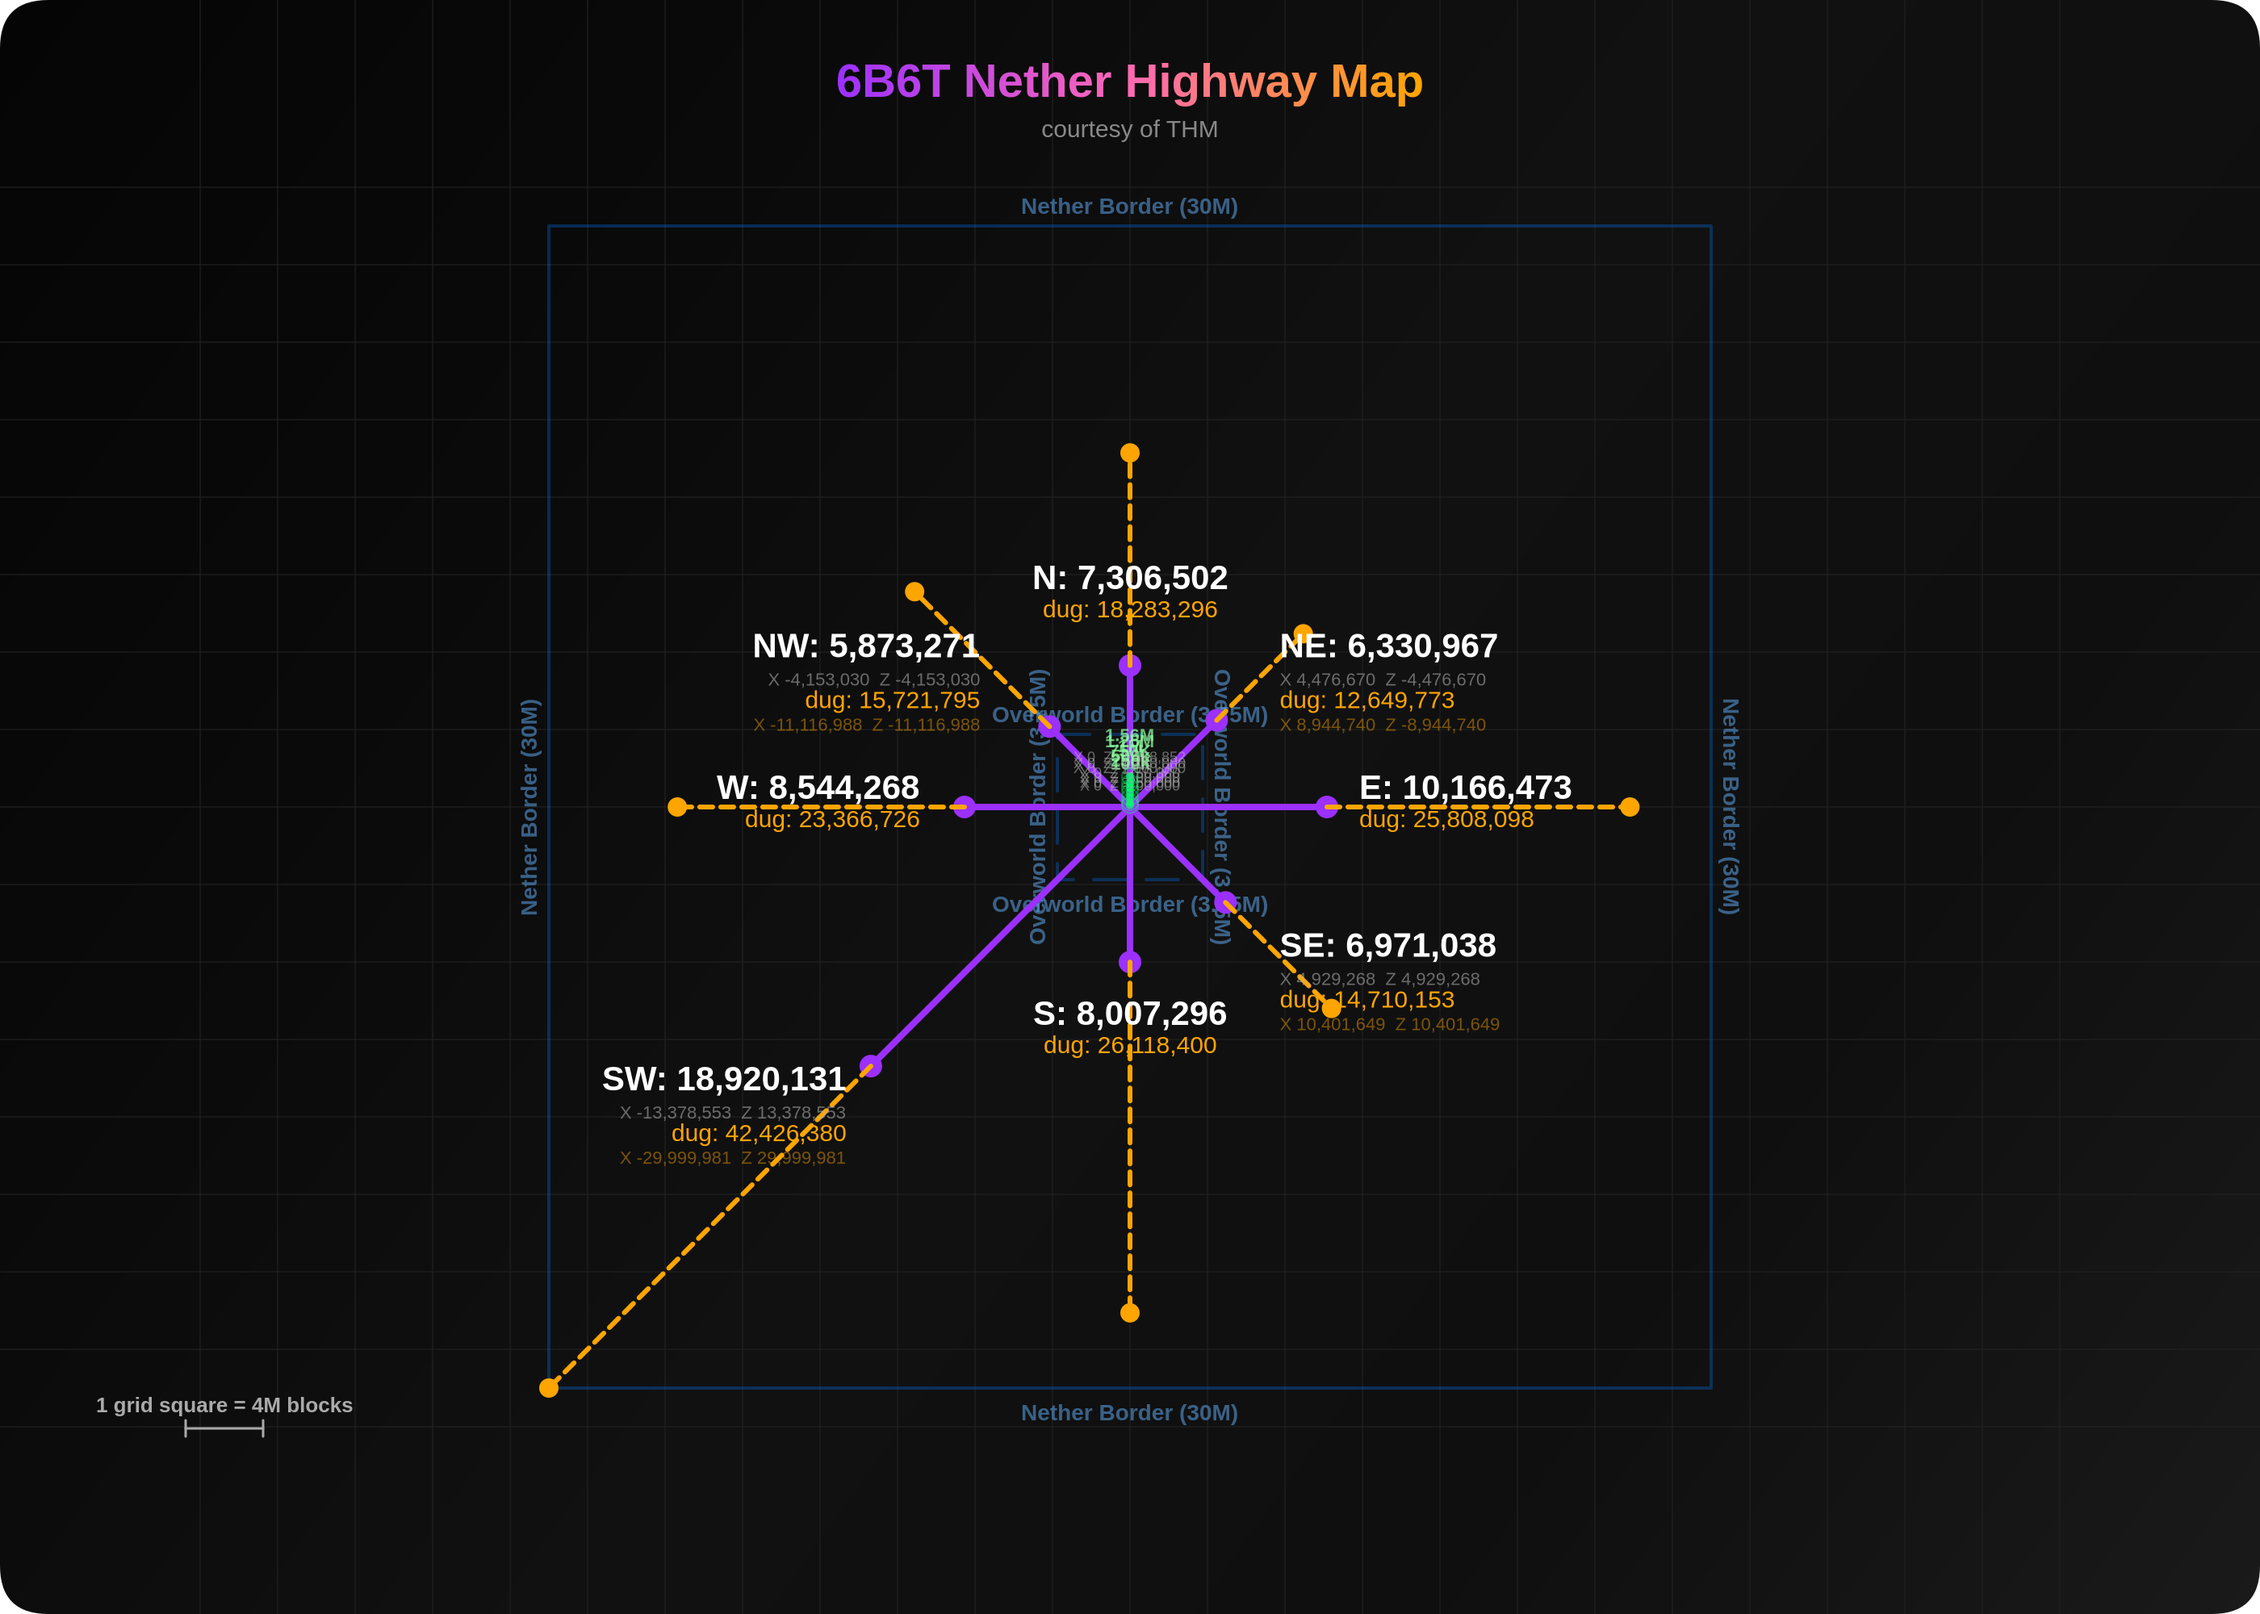
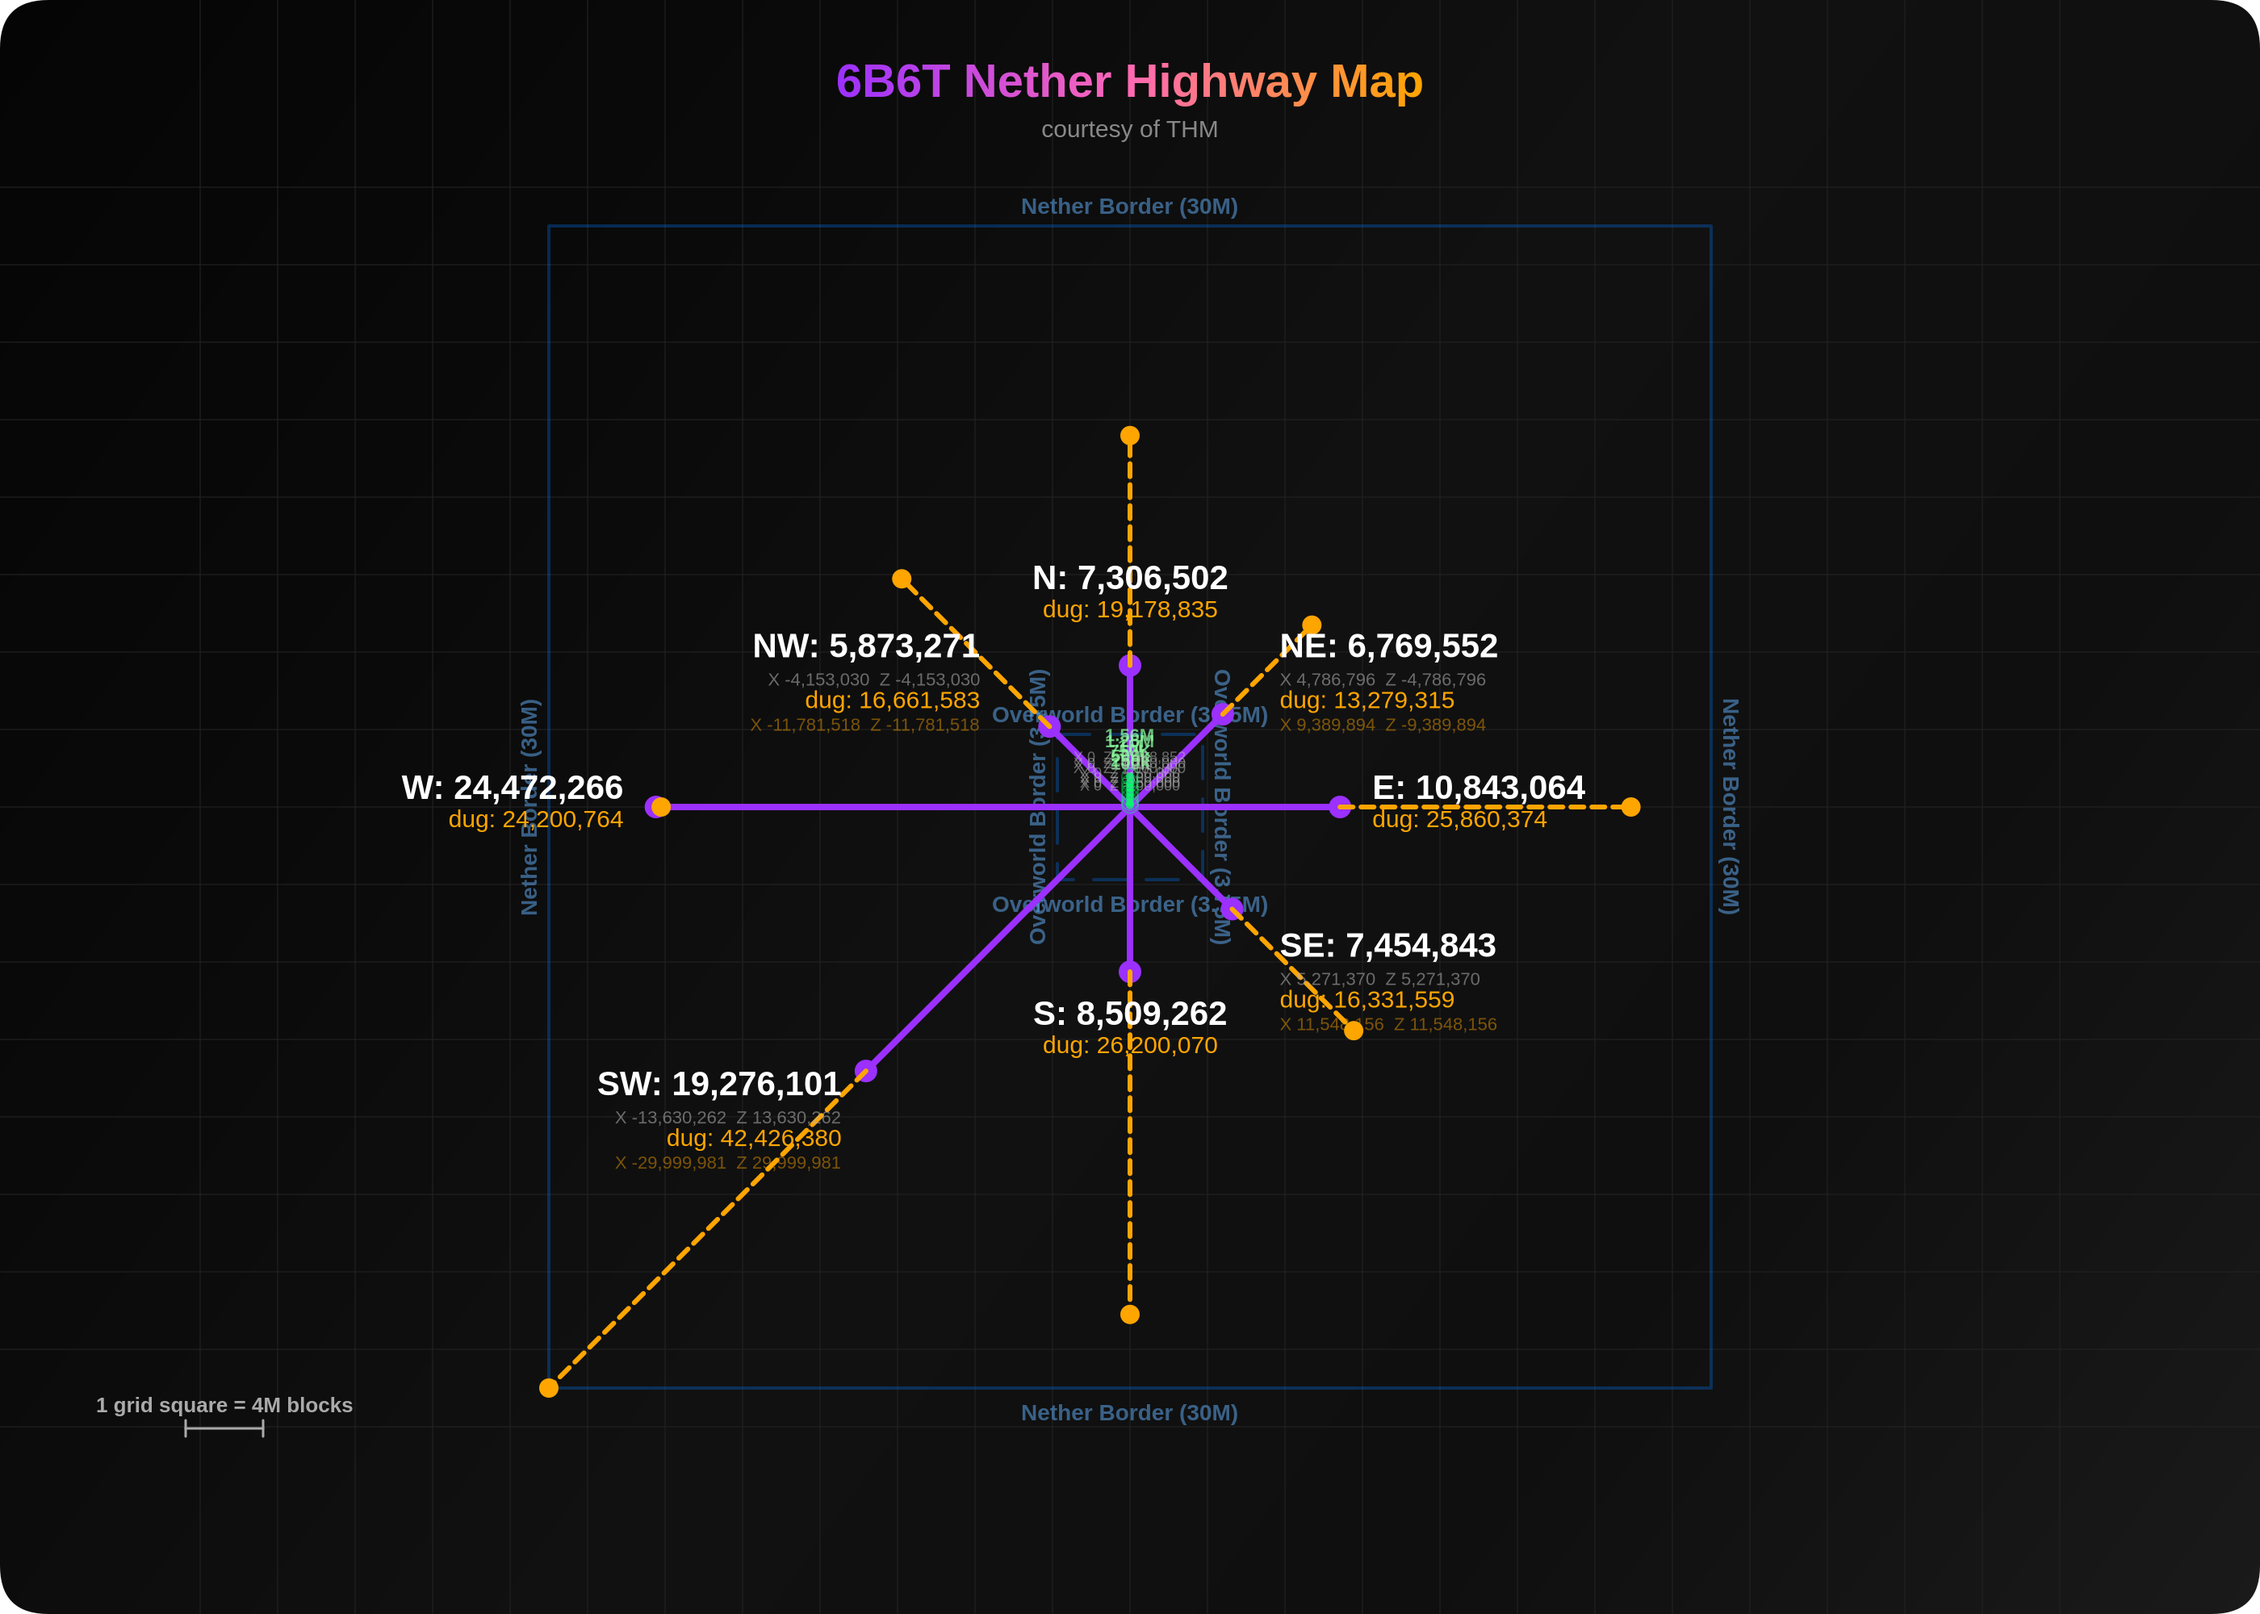
idk

diff --git a/server.js b/server.js
@@ -4,7 +4,7 @@ process.env.NODE_ENV ||= 'production';
 const express = require('express');
 const path = require('path');
 const fs = require('fs');
-const { spawnSync } = require('child_process');
+const { spawnSync, execFile } = require('child_process');
 const app = express();
 
 // Configuration constants
@@ -20,7 +20,8 @@ const STATS_FILE = path.join(PUBLIC_DIR, 'stats.json');
 function findPngs(dir) {
   return fs.readdirSync(dir, { withFileTypes: true }).flatMap((entry) => {
     const full = path.join(dir, entry.name);
-    if (entry.isDirectory()) return findPngs(full);
+    // public/cape/ is watchCapes' job, which deletes the PNG instead of keeping a twin.
+    if (entry.isDirectory()) return full === CAPE_DIR ? [] : findPngs(full);
     return entry.isFile() && entry.name.toLowerCase().endsWith('.png') ? [full] : [];
   });
 }
@@ -40,6 +41,42 @@ function convertPngs() {
     if (r.status === 0) console.log(`webp: ${rel} converted`);
     else console.warn(`webp: ${rel} not converted, serving the PNG —`, r.error?.message || r.stderr?.toString().trim());
   }
+}
+
+// ── New capes ────────────────────────────────────────────────────────────────
+// public/cape/ is watched: a .png dropped in becomes a lossless .webp and the
+// .png is deleted, so /cape/index lists it with no restart. The index only reads
+// .webp, so a cape PNG is dead weight — unlike the twins above, it goes.
+// The settle delay lets an upload finish writing before ffmpeg reads it.
+const CAPE_DIR = path.join(PUBLIC_DIR, 'cape');
+const CAPE_SETTLE_MS = 2000;
+const capeTimers = new Map();
+
+function convertCape(png) {
+  const name = path.basename(png);
+  const webp = png.replace(/\.png$/i, '.webp');
+  execFile('ffmpeg', ['-y', '-loglevel', 'error', '-i', png, '-c:v', 'libwebp', '-lossless', '1', webp], (err, _out, stderr) => {
+    // Delete only once the webp really exists — a failed encode keeps the PNG.
+    let ok = !err;
+    try { ok = ok && fs.statSync(webp).size > 0; } catch { ok = false; }
+    if (!ok) return console.warn(`cape: ${name} not converted, PNG kept —`, err?.message || stderr.trim());
+    fs.rm(png, { force: true }, () => console.log(`cape: ${name} -> ${path.basename(webp)}, PNG deleted`));
+  });
+}
+
+function watchCapes() {
+  let pngs;
+  try { pngs = fs.readdirSync(CAPE_DIR).filter((f) => /\.png$/i.test(f)); } catch { return; }
+  pngs.forEach((f) => convertCape(path.join(CAPE_DIR, f))); // dropped in while the server was down
+  fs.watch(CAPE_DIR, (_event, name) => {
+    if (!name || !/\.png$/i.test(name)) return;
+    clearTimeout(capeTimers.get(name));
+    capeTimers.set(name, setTimeout(() => {
+      capeTimers.delete(name);
+      const png = path.join(CAPE_DIR, name);
+      if (fs.existsSync(png)) convertCape(png);
+    }, CAPE_SETTLE_MS));
+  }).on('error', (e) => console.warn('cape: watcher stopped —', e.message));
 }
 
 app.use((req, res, next) => {
@@ -141,4 +178,5 @@ function listen(attempt = 1, wait = 1000, maxAttempts = 5) {
 }
 
 convertPngs();
+watchCapes();
 listen();

diff --git a/CLAUDE.md b/CLAUDE.md
@@ -67,6 +67,13 @@ sends `Accept: image/webp` and the twin is smaller, `Vary: Accept` set. No image
 library in the dependencies; a new PNG converts on the next restart. If ffmpeg is
 missing the conversion warns and the PNG is served as-is.
 
+`public/cape/` is the exception: it is `fs.watch`ed, and a `.png` landing there is
+converted (same ffmpeg call, async, after a 2 s settle so a half-written upload
+isn't read) and the **PNG deleted** once the `.webp` exists — the index lists only
+`.webp`, so a cape PNG is dead weight. PNGs dropped in while the server was down
+convert at boot; a failed encode keeps the PNG. The boot twin scan skips that
+directory so the two never write the same file.
+
 `stats.json` and `map-meta.json` are written by something outside this repo. If
 either fetch fails the page degrades quietly (the plate keeps its `—`
 placeholders).
